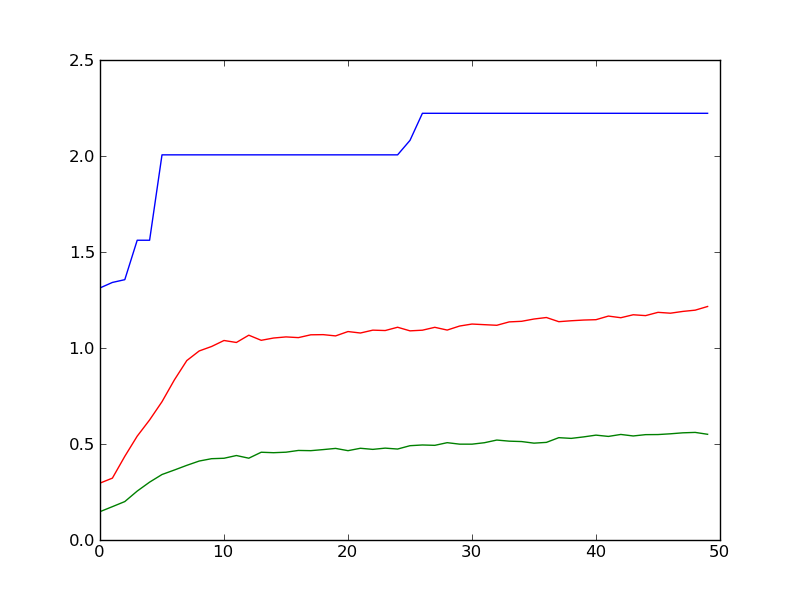
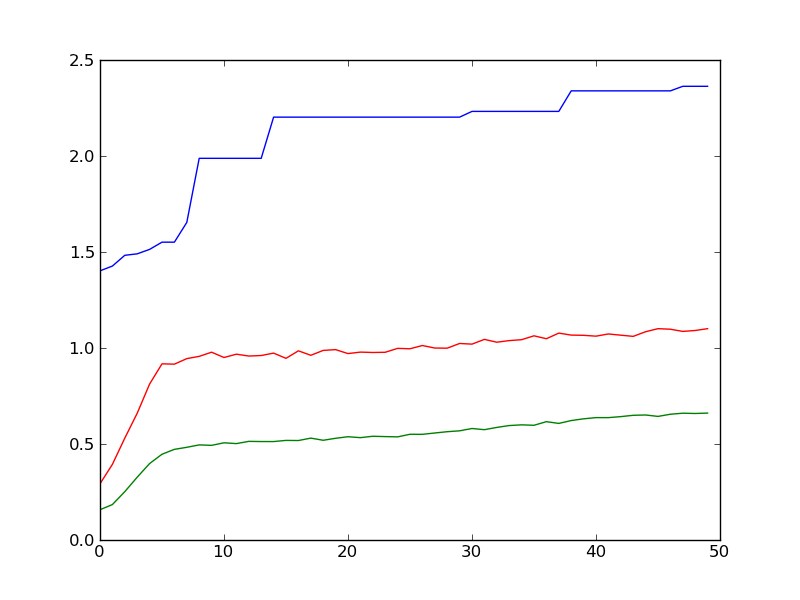
*

diff --git a/project2/main.py b/project2/main.py
@@ -134,7 +134,7 @@ if __name__ == '__main__':
     population = 500
     generations = 50
     bvl = 33
-    fitchildren = 500
+    fitchildren = 1000
     adultselect = "A_III"
     parentselect = "P_II"
     phenotype = pheno.IzhikevichPhenotype
